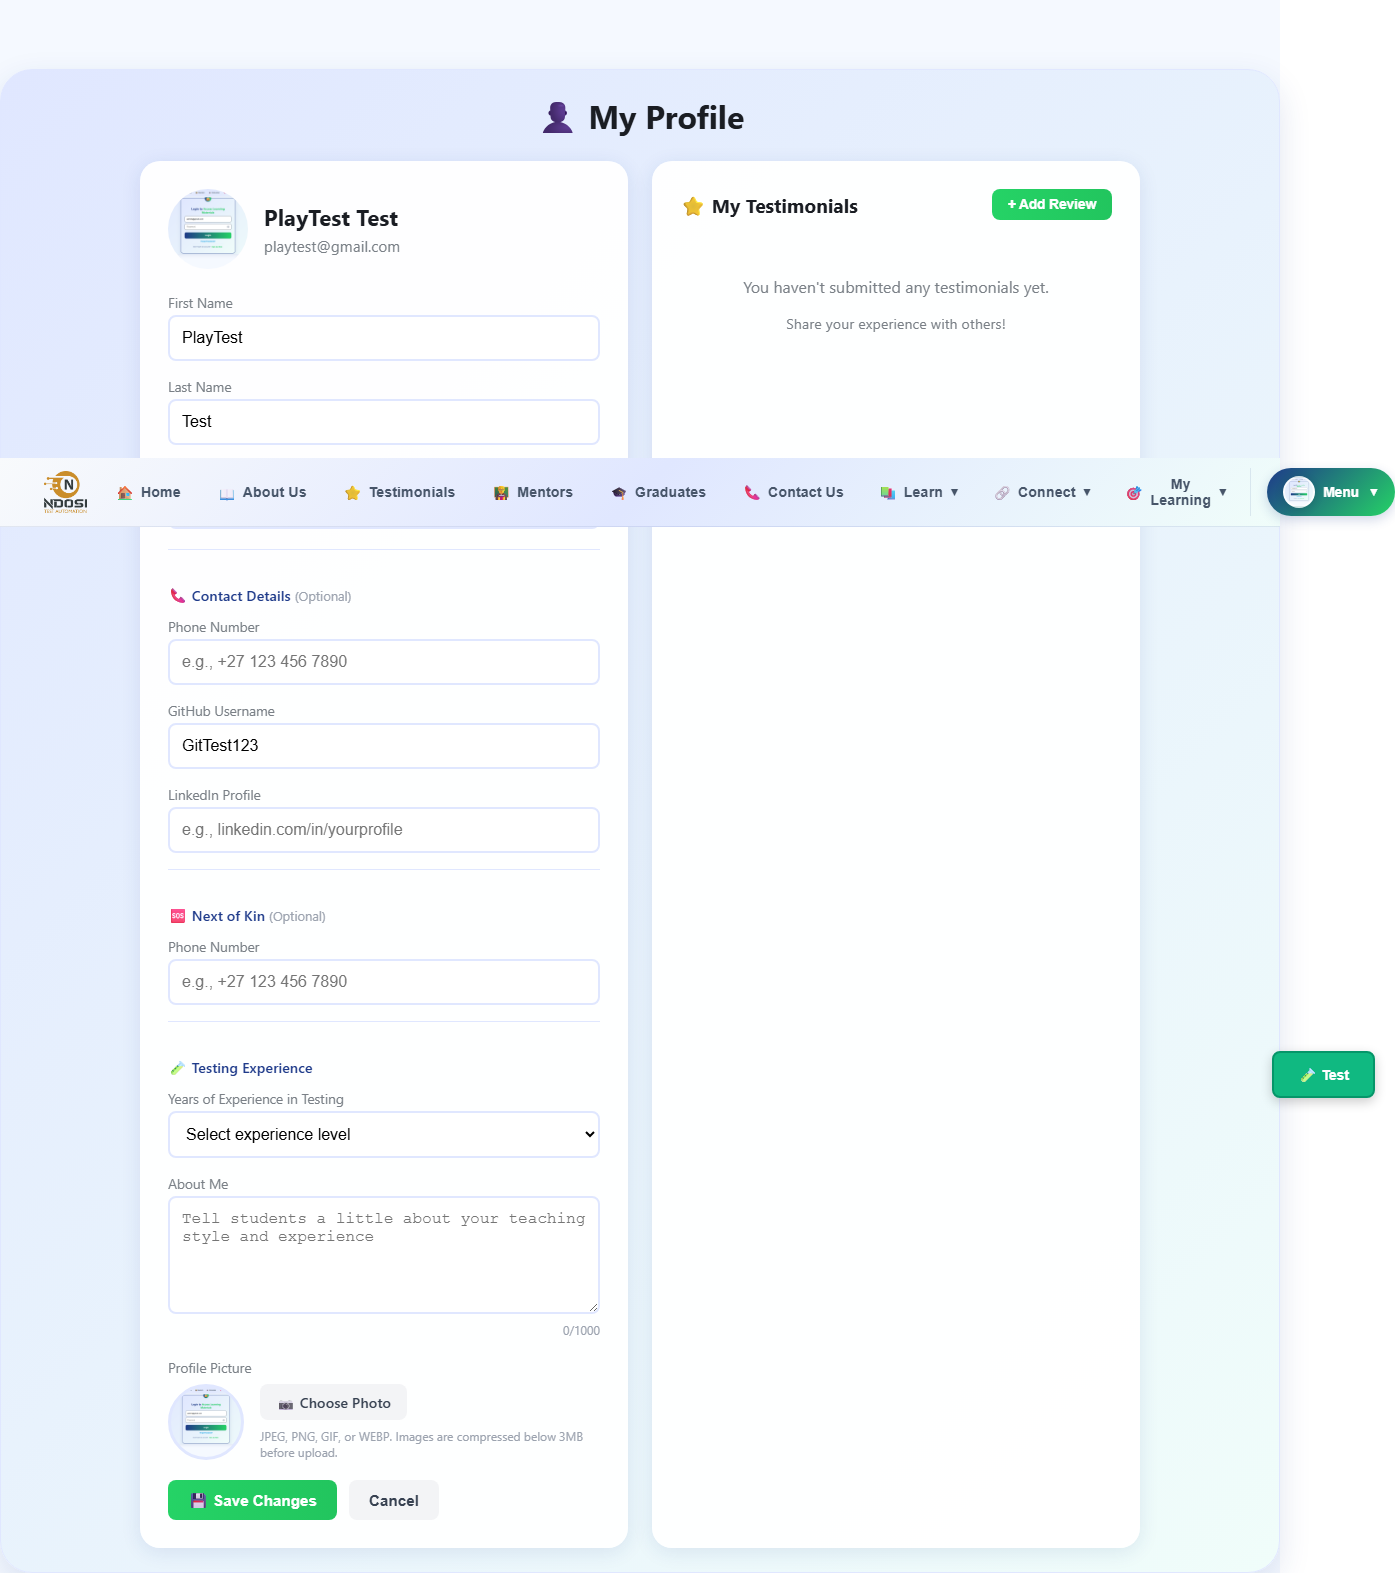
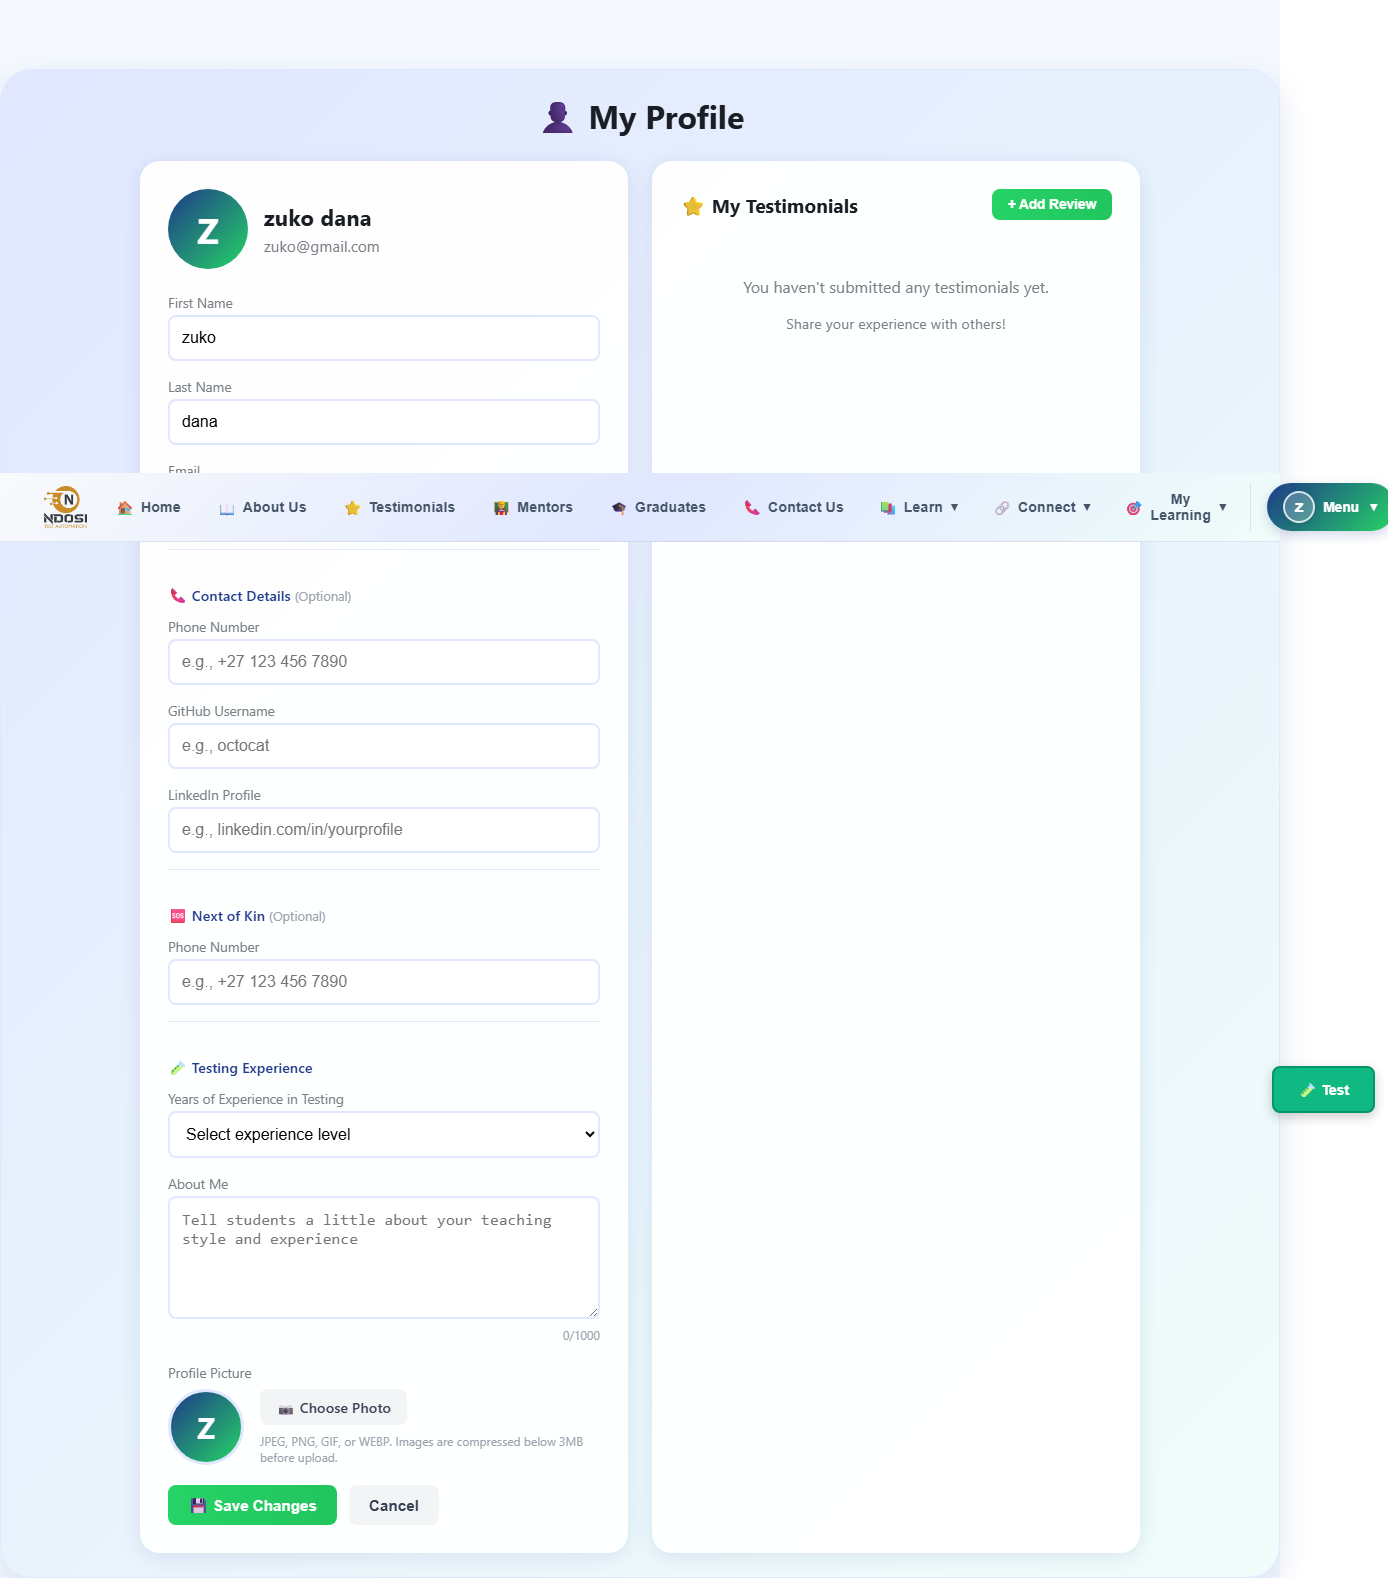
update my  data

diff --git a/src/data/TestData.ts b/src/data/TestData.ts
@@ -1,7 +1,7 @@
 export const LoginUser = {
     UserDetails: {
-       username: 'playtest@gmail.com',
-        password: '1234567!',
+       username: 'zuko@gmail.com',
+        password: '12345678@',
         
     },
 
